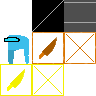
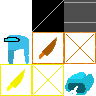
dead sprite

Changed region(s): [[0.6562, 0.75, 1.0, 1.0]]

diff --git a/src/game.cpp b/src/game.cpp
@@ -293,12 +293,12 @@ void Game::start_game()
     std::string default_theme = m_resources_dir + "sfx/among_us_drip.wav";
 
     m_room_entities["start_1"] = {
-        new Entity(m_rend, { 50 * 32, 12 * 32 }, m_atlas, { 0, 32 }, { "I have Brain Damage", ";ALSKDFMA;LDFKMAJL;A;LALFA;LKFJAKLFM LEELLLLLLLLLLLLLLLLLLLL LELLLLLLLLLLLLLLLLLLLLLLLLLLLLLLLLL" }, default_theme),
-        new Entity(m_rend, { 40 * 32, 11 * 32 }, m_atlas, { 0, 32 }, { "OmoO I am So Aesthetic" }, default_theme)
+        new Entity(m_rend, { 50 * 32, 12 * 32 }, m_atlas, { 0, 32 }, { 64, 64 }, { "I have Brain Damage", ";ALSKDFMA;LDFKMAJL;A;LALFA;LKFJAKLFM LEELLLLLLLLLLLLLLLLLLLL LELLLLLLLLLLLLLLLLLLLLLLLLLLLLLLLLL" }, default_theme),
+        new Entity(m_rend, { 40 * 32, 11 * 32 }, m_atlas, { 0, 32 }, { 64, 64 }, { "OmoO I am So Aesthetic" }, default_theme)
     };
 
     m_room_entities["start_2"] = {
-        new Entity(m_rend, { 18 * 32, 8 * 32 }, m_atlas, { 0, 32 }, { "Your such a sussy baka :flushed:" }, default_theme)
+        new Entity(m_rend, { 18 * 32, 8 * 32 }, m_atlas, { 0, 32 }, { 64, 64 }, { "Your such a sussy baka :flushed:" }, default_theme)
     };
     
     {

diff --git a/src/entity.cpp b/src/entity.cpp
@@ -2,14 +2,16 @@
 #include "common.h"
 
 
-Entity::Entity(SDL_Renderer* rend, SDL_Point pos, SDL_Texture* atlas, SDL_Point atlas_pos, const std::vector<std::string>& dialogue, const std::string& theme_path)
-    : m_rend(rend), m_rect{ pos.x, pos.y, BLOCK_SIZE, BLOCK_SIZE }, m_atlas(atlas), m_atlas_rect{ atlas_pos.x, atlas_pos.y, BLOCK_SIZE, BLOCK_SIZE }, m_dialogue(dialogue), m_theme_path(theme_path) {}
+Entity::Entity(SDL_Renderer* rend, SDL_Point pos, SDL_Texture* atlas, SDL_Point alive_spr, SDL_Point dead_spr, const std::vector<std::string>& dialogue, const std::string& theme_path)
+    : m_rend(rend), m_rect{ pos.x, pos.y, BLOCK_SIZE, BLOCK_SIZE }, m_atlas(atlas), m_sprite{ alive_spr.x, alive_spr.y, BLOCK_SIZE, BLOCK_SIZE }, m_dead_sprite{ dead_spr.x, dead_spr.y, BLOCK_SIZE, BLOCK_SIZE }, m_dialogue(dialogue), m_theme_path(theme_path) {}
 
 
 void Entity::render()
 {
     if (m_alive)
-        SDL_RenderCopy(m_rend, m_atlas, &m_atlas_rect, &m_rect);
+        SDL_RenderCopy(m_rend, m_atlas, &m_sprite, &m_rect);
+    else
+        SDL_RenderCopy(m_rend, m_atlas, &m_dead_sprite, &m_rect);
 }
 
 

diff --git a/src/entity.h b/src/entity.h
@@ -8,7 +8,7 @@
 class Entity
 {
 public:
-    Entity(SDL_Renderer* rend, SDL_Point pos, SDL_Texture* atlas, SDL_Point atlas_pos, const std::vector<std::string>& dialogue, const std::string& theme_path);
+    Entity(SDL_Renderer* rend, SDL_Point pos, SDL_Texture* atlas, SDL_Point alive_spr, SDL_Point dead_spr, const std::vector<std::string>& dialogue, const std::string& theme_path);
 
     void render();
 
@@ -24,7 +24,8 @@ public:
 
 private:
     SDL_Rect m_rect;
-    SDL_Rect m_atlas_rect;
+    SDL_Rect m_sprite;
+    SDL_Rect m_dead_sprite;
     SDL_Texture* m_atlas;
 
     SDL_Renderer* m_rend;

diff --git a/src/battle.cpp b/src/battle.cpp
@@ -57,14 +57,12 @@ void Battle::hit_selected_button()
 {
     switch (m_current_selected_button)
     {
-    case 0:
-        std::cout << "fight\n";
+    case 0: // fight
         audio::play_sound(m_resources_dir + "sfx/kill.wav");
         m_entity->die();
         m_finished = true;
         break;
-    case 1:
-        std::cout << "spare\n";
+    case 1: // spare
         break;
     }
 }
